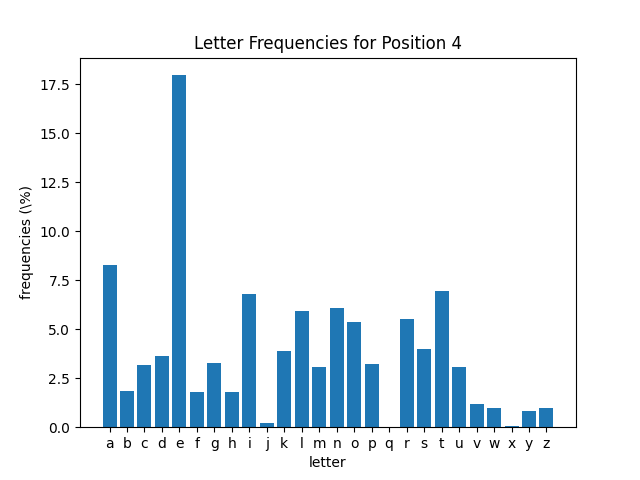
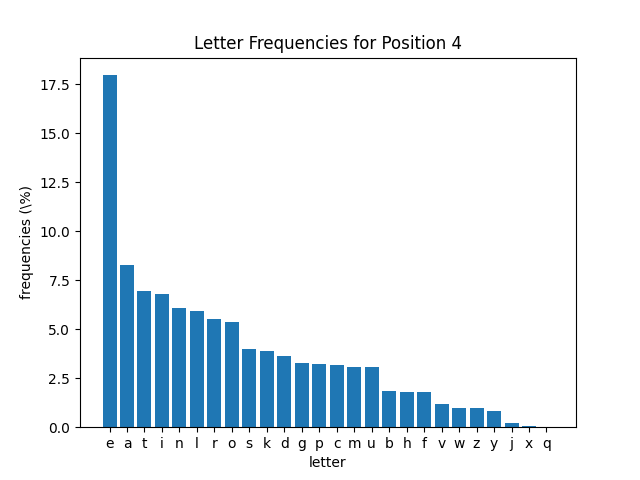
Sort graphs by frequency

Changed region(s): [[0.1562, 0.1562, 0.875, 0.9375]]

diff --git a/src/count.py b/src/count.py
@@ -1,5 +1,5 @@
 import matplotlib.pyplot as plt
-
+import numpy as np
 
 with open("../data/words.txt", 'r') as allWords:
 	words = allWords.readlines()[0].strip().split(" ")
@@ -24,29 +24,65 @@ for word in words:
 		placements[str(i)][word[i-1:i]] = 0 if word[i-1:i] not in placements[str(i)] else placements[str(i)][word[i-1:i]] + 1
 		totalOccurances[word[i-1:i]] = 0 if word[i-1:i] not in totalOccurances else totalOccurances[word[i-1:i]] + 1
 
-
+# Plot positions 1-5
 for n in range(1, 6):
 	plt.figure(n)
 	letters = list(alphabet)
 	occurance = [placements[str(n)][letter] for letter in list(alphabet)]
 	totalLetters = sum(occurance)
 	frequencies = [(x/totalLetters)*100 for x in occurance]
+	frequencies, letters = zip(*sorted(zip(frequencies, letters), reverse=True))
 	plt.bar(letters, frequencies)
 	plt.title('Letter Frequencies for Position ' + str(n))
 	plt.xlabel('letter')
 	plt.ylabel('frequencies (\%)')
 	plt.savefig("../img/" + str(n) + ".png")
 
-
+# Plot total frequencies for 5 letter words
 frequencies = [totalOccurances[letter] for letter in list(alphabet)]
 totalLetters = sum(frequencies)
 frequencies = [(x/totalLetters)*100 for x in frequencies]
 plt.figure(6)
 letters = list(alphabet)
+frequencies, letters = zip(*sorted(zip(frequencies, letters), reverse=True))
 plt.bar(letters, frequencies)
 plt.title('Letter Frequencies for 5-letter Words')
 plt.xlabel('letter')
 plt.ylabel('frequencies (\%)')
 plt.savefig("../img/total.png")
+
+# Plot frequencies for all english words
+plt.figure(7)
+letters = list(alphabet)
+# from https://www.lexico.com/explore/which-letters-are-used-most
+occurance = [8.4966, 2.0720, 4.5388, 3.3844, 11.1607, 1.8121, 2.4705, 3.0034, 7.5448, 0.1965, 1.1016, 5.4893, 3.0129, 6.6544, 7.1635, 3.1671, 0.1962, 7.5809, 5.7351, 6.9509, 3.6308, 1.0074, 1.2899,0.2902, 1.7779, 0.2722]
+occurance, letters = zip(*sorted(zip(occurance, letters), reverse=True))
+plt.bar(letters, occurance)
+plt.title('Letter Frequencies in English Language')
+plt.xlabel('letter')
+plt.ylabel('frequency')
+plt.savefig("../img/englishTotal.png")
+
+
+
+# Plot total frequencies of both
+plt.figure(8)
+ind = np.arange(26)
+width = 0.3
+letters = list(alphabet)
+# from https://www.lexico.com/explore/which-letters-are-used-most
+englishFreq = [8.4966, 2.0720, 4.5388, 3.3844, 11.1607, 1.8121, 2.4705, 3.0034, 7.5448, 0.1965, 1.1016, 5.4893, 3.0129, 6.6544, 7.1635, 3.1671, 0.1962, 7.5809, 5.7351, 6.9509, 3.6308, 1.0074, 1.2899,0.2902, 1.7779, 0.2722]
+frequencies = [totalOccurances[letter] for letter in list(alphabet)]
+totalLetters = sum(frequencies)
+frequencies = [(x/totalLetters)*100 for x in frequencies]
+plt.bar(ind, frequencies, width, label="5-letter Words")
+plt.bar(ind+width, englishFreq, width, label="All English Words")
+plt.xticks(ind + width / 2, letters)
+plt.legend(loc='best')
+plt.title('Letter Frequencies')
+plt.xlabel('letter')
+plt.ylabel('frequency')
+plt.savefig("../img/compTotal.png")
+
 
 
